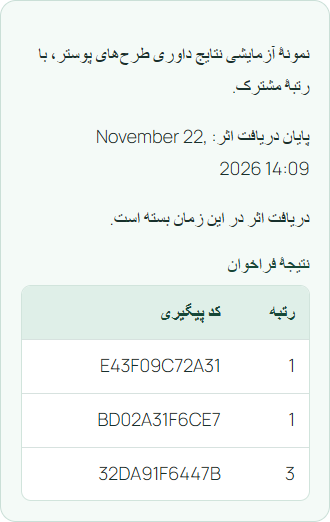
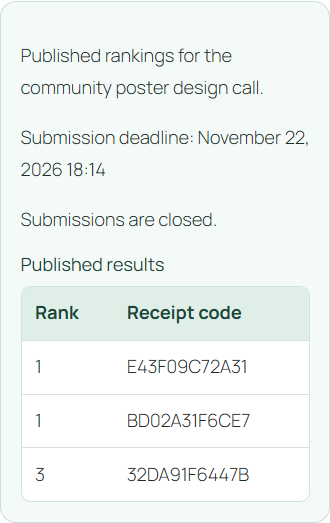
Use English screenshots and verify the portfolio evidence (#3)

diff --git a/README.md b/README.md
@@ -8,9 +8,9 @@ A submission call needs scores from the right judges, reproducible rankings, and
 
 The [workflow](src/class-workflow.php) restricts scoring to assigned judges within the judging window. It accepts scores from 0 to 100 with up to two decimal places, including Persian digits. Equal averages share a rank, so the next result after two entries in first place is third. Publication checks for incomplete reviews and compares the current ranking with the reviewed preview before saving a snapshot.
 
-![The original Persian test interface showing two sample entries tied in first place](docs/public-results.png)
+![Published Chaleshino results showing two sample entries tied in first place](docs/public-results.png)
 
-The screenshot shows synthetic receipt codes in the Persian public views of the full plugin.
+The English test page uses synthetic receipt codes. [View the same published results on mobile](docs/public-results-mobile.png).
 
 ## Run the integration fixture
 
